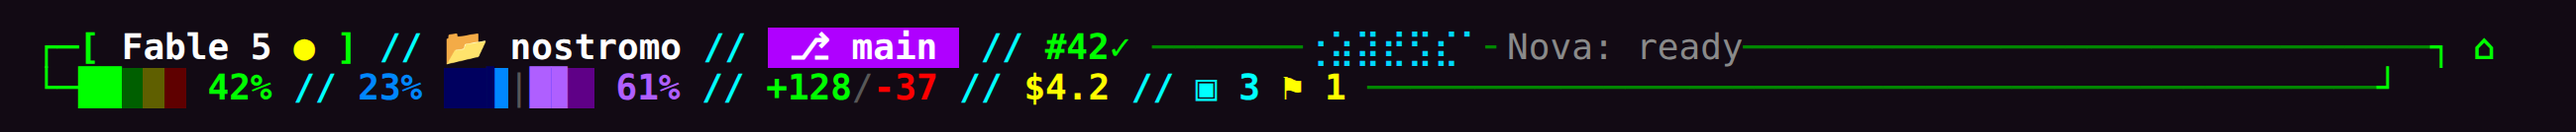
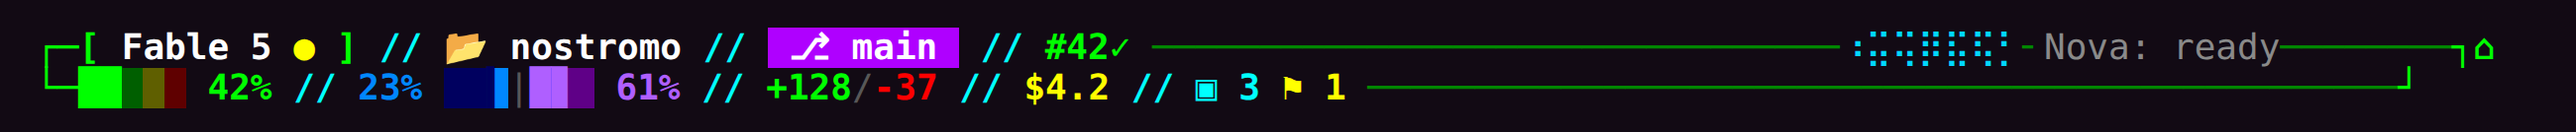
3.1.1: README media regenerated with the no-gap home button

diff --git a/statusline.py b/statusline.py
@@ -104,7 +104,7 @@ the % is always the token touching its own bar. Each gauge escalates on
 its own, and the pinned label is the last thing row 2 gives up when the
 terminal narrows, so neither number flickers away under you.
 """
-__version__ = "3.1.0"
+__version__ = "3.1.1"
 
 import calendar
 import json

diff --git a/CHANGELOG.md b/CHANGELOG.md
@@ -4,6 +4,13 @@ All notable changes to retro-hud are documented here.
 Versioning follows [Semantic Versioning](https://semver.org) with `v`-prefixed
 tags from v2.0.0 onward (earlier releases were tagged `1.0`–`1.3`).
 
+## [v3.1.1] — 2026-10-24
+
+### Fixed
+- **The home and back buttons sit right after the corners**, with no gap
+  cell: the frame now ends one column before the bar's edge, not two.
+  README media regenerated.
+
 ## [v3.1.0] — 2026-10-24
 
 ### Added
